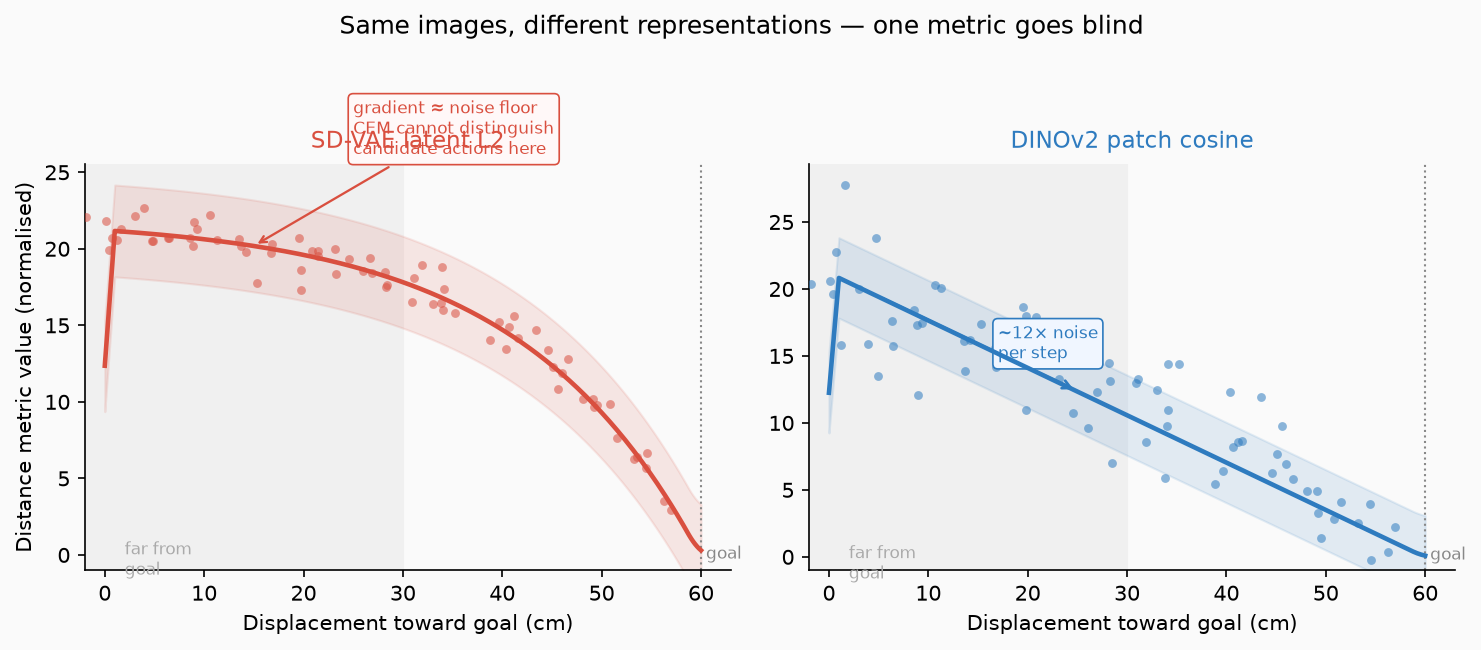
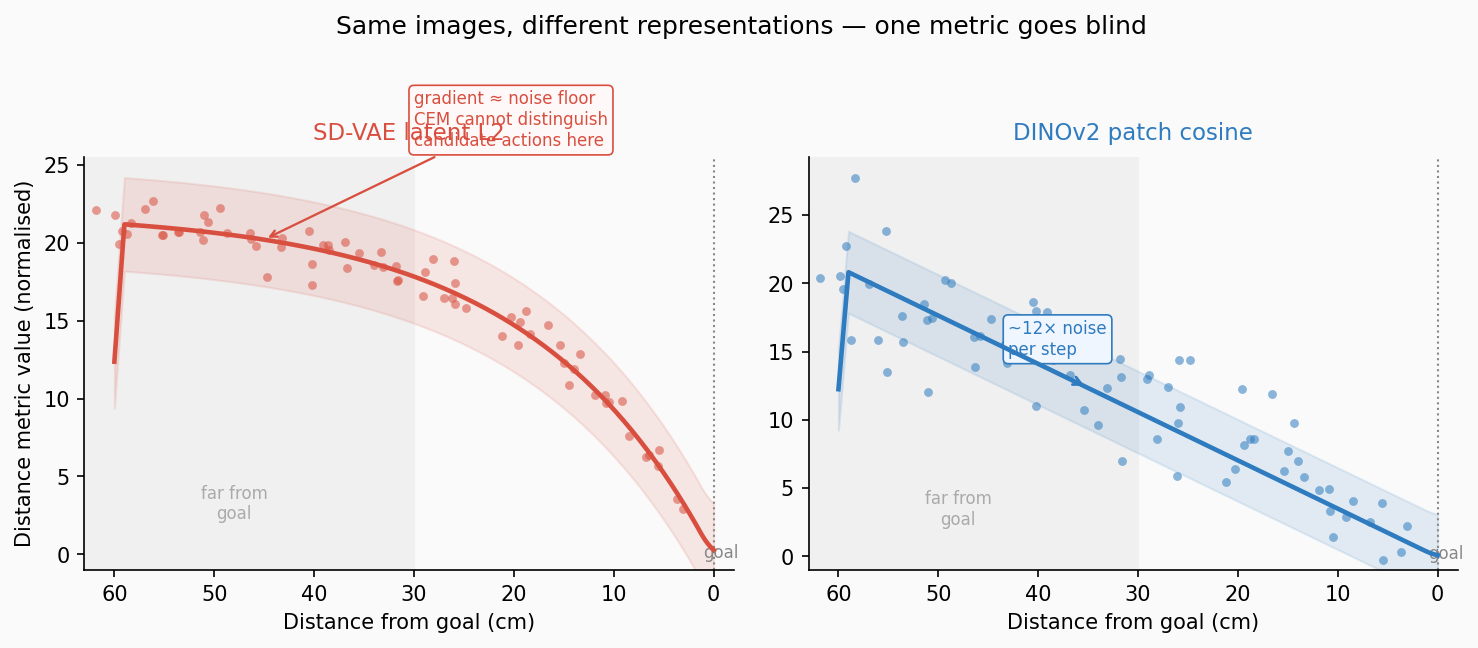
fig: flip metric_comparison x-axis to distance from goal
Both panels now share the same convention as dist_sweep_curve.png:
far from goal on the left, goal on the right, metric decreasing
as the robot approaches.

diff --git a/scripts/gen_metric_comparison.py b/scripts/gen_metric_comparison.py
@@ -1,8 +1,9 @@
 """
 Generate a schematic figure comparing SD-VAE L2 vs. DINOv2 cosine distance.
 
-X-axis = displacement toward goal (cm). As the robot travels further,
-it gets closer to the goal, so the metric should DECREASE.
+X-axis = distance from goal (cm), reversed so far-from-goal is on the left
+and the robot approaches the goal toward the right. Metric should DECREASE
+as the robot gets closer (moves right).
 
 Key numbers from Gate A sweep (context/learned-distance-metric.md):
   SD-VAE L2:     far-band slope 1.25σ  (gradient buried in noise — curve stays flat)
@@ -30,7 +31,7 @@ def dino_true(r):
     # Linear throughout (far-band slope ≈ 12× noise)
     return 0.55 * r / 60   # 0 at goal → 0.55 at 60 cm
 
-# scatter points: r = distance to goal
+# scatter points: x = distance from goal
 vae_pts, dino_pts, r_pts = [], [], []
 for r in radii:
     for _ in range(n_per):
@@ -47,15 +48,10 @@ dino_pts = np.array(dino_pts)
 dino_scale      = vae_true(60) / dino_true(60)
 dino_pts_scaled = dino_pts * dino_scale
 
-# Trend lines: x = displacement toward goal = 60 - r
-# Plot with x on the horizontal axis (0 = start, 60 = arrived)
-r_line = np.linspace(0, 60, 300)          # distance to goal
-x_line = 60 - r_line                      # displacement toward goal
+# Trend lines: x = distance from goal (same as r)
+r_line    = np.linspace(0, 60, 300)
 vae_line  = vae_true(r_line)
 dino_line = dino_true(r_line) * dino_scale
-
-# Scatter x-coords: displacement = 60 - r
-x_pts = 60 - r_pts
 
 def smooth(y, w=12):
     return np.convolve(y, np.ones(w) / w, mode='same')
@@ -67,48 +63,47 @@ dino_s = smooth(dino_line)
 fig, axes = plt.subplots(1, 2, figsize=(10, 4.2), sharey=False)
 fig.patch.set_facecolor('#fafafa')
 
-# Far band in terms of displacement: robot is >30 cm from goal = displacement < 30
-FAR_DISP_MAX = 30   # displacement < 30 means still in far band
+# Far band: distance from goal > 30 cm (left side of reversed axis)
+FAR_DIST_MIN = 30
 
 for ax, x_sc, pts, line, color, label in [
-    (axes[0], x_pts, vae_pts,          vae_s,  '#d94f3f', 'SD-VAE latent L2'),
-    (axes[1], x_pts, dino_pts_scaled,  dino_s, '#2e7bbf', 'DINOv2 patch cosine'),
+    (axes[0], r_pts, vae_pts,          vae_s,  '#d94f3f', 'SD-VAE latent L2'),
+    (axes[1], r_pts, dino_pts_scaled,  dino_s, '#2e7bbf', 'DINOv2 patch cosine'),
 ]:
     ax.set_facecolor('#fafafa')
     ax.spines[['top', 'right']].set_visible(False)
 
-    # far band shading (low displacement = far from goal)
-    ax.axvspan(-2, FAR_DISP_MAX, color='#f0f0f0', zorder=0)
-    ax.text(2, ax.get_ylim()[1] if ax.get_ylim()[1] > 0 else 22,
-            'far from\ngoal', fontsize=8, color='#aaa', va='top')
+    # far band shading (high distance = far from goal, appears on LEFT with reversed axis)
+    ax.axvspan(FAR_DIST_MIN, 63, color='#f0f0f0', zorder=0)
+    ax.text(48, 2, 'far from\ngoal', fontsize=8, color='#aaa', va='bottom', ha='center')
 
     # noise band
-    ax.fill_between(x_line, line - noise_std * 3, line + noise_std * 3,
+    ax.fill_between(r_line, line - noise_std * 3, line + noise_std * 3,
                     color=color, alpha=0.12, zorder=1)
 
     # scatter
     ax.scatter(x_sc, pts, color=color, s=18, alpha=0.55, zorder=3, linewidths=0)
 
     # trend line
-    ax.plot(x_line, line, color=color, lw=2.2, zorder=4)
+    ax.plot(r_line, line, color=color, lw=2.2, zorder=4)
 
-    ax.set_xlabel('Displacement toward goal (cm)', fontsize=10)
-    ax.set_xlim(-2, 63)
+    ax.set_xlabel('Distance from goal (cm)', fontsize=10)
+    # reversed: far-from-goal on the left, goal on the right
+    ax.set_xlim(63, -2)
     ax.set_ylim(bottom=-1)
     ax.set_title(label, fontsize=11, color=color, pad=8)
 
-    # goal line
-    ax.axvline(60, color='#888', lw=1.0, ls=':')
-    ax.text(60.5, ax.get_ylim()[0] + 0.5, 'goal', fontsize=8, color='#888', va='bottom')
+    # goal line at x=0 (right edge)
+    ax.axvline(0, color='#888', lw=1.0, ls=':')
+    ax.text(1, ax.get_ylim()[0] + 0.5, 'goal', fontsize=8, color='#888', va='bottom')
 
-# VAE: annotate the flat region (low displacement = far from goal)
+# VAE: annotate the flat region (high distance = far from goal, left side of reversed axis)
 ax0 = axes[0]
 ax0.set_ylabel('Distance metric value (normalised)', fontsize=10)
-flat_x = 15   # displacement=15 means still 45cm from goal (far band)
 ax0.annotate(
     'gradient ≈ noise floor\nCEM cannot distinguish\ncandidate actions here',
-    xy=(flat_x, vae_true(60 - flat_x)),
-    xytext=(25, vae_true(60 - flat_x) + 6),
+    xy=(45, vae_true(45)),
+    xytext=(30, vae_true(45) + 6),
     fontsize=8, color='#d94f3f',
     arrowprops=dict(arrowstyle='->', color='#d94f3f', lw=1.1),
     bbox=dict(boxstyle='round,pad=0.3', fc='#fff8f8', ec='#d94f3f', lw=0.8)
@@ -116,12 +111,13 @@ ax0.annotate(
 
 # DINOv2: annotate steady descent in far band
 ax1 = axes[1]
-x_lo, x_hi = 5, 25
-y_lo = dino_true(60 - x_lo) * dino_scale
-y_hi = dino_true(60 - x_hi) * dino_scale
-ax1.annotate('', xy=(x_hi, y_hi), xytext=(x_lo, y_lo),
+r_lo, r_hi = 35, 55   # distance from goal; r_hi is farther (left), r_lo is closer (right)
+y_lo = dino_true(r_lo) * dino_scale
+y_hi = dino_true(r_hi) * dino_scale
+# arrow from farther (r_hi) toward closer (r_lo) — left to right visually on reversed axis
+ax1.annotate('', xy=(r_lo, y_lo), xytext=(r_hi, y_hi),
              arrowprops=dict(arrowstyle='->', color='#2e7bbf', lw=1.3))
-ax1.text((x_lo + x_hi) / 2 + 2, (y_lo + y_hi) / 2,
+ax1.text((r_lo + r_hi) / 2 - 2, (y_lo + y_hi) / 2,
          '~12× noise\nper step', fontsize=8, color='#2e7bbf', va='center',
          bbox=dict(boxstyle='round,pad=0.3', fc='#f0f6ff', ec='#2e7bbf', lw=0.8))
 